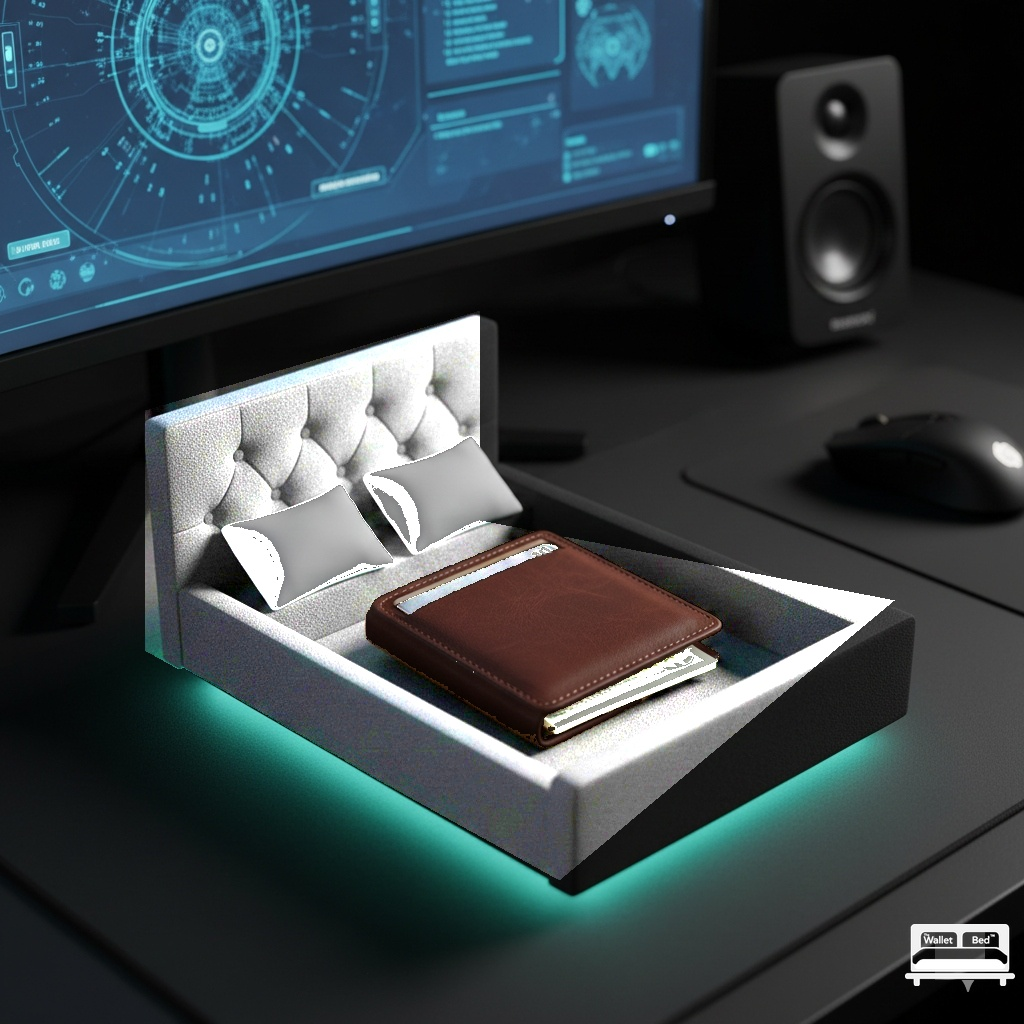
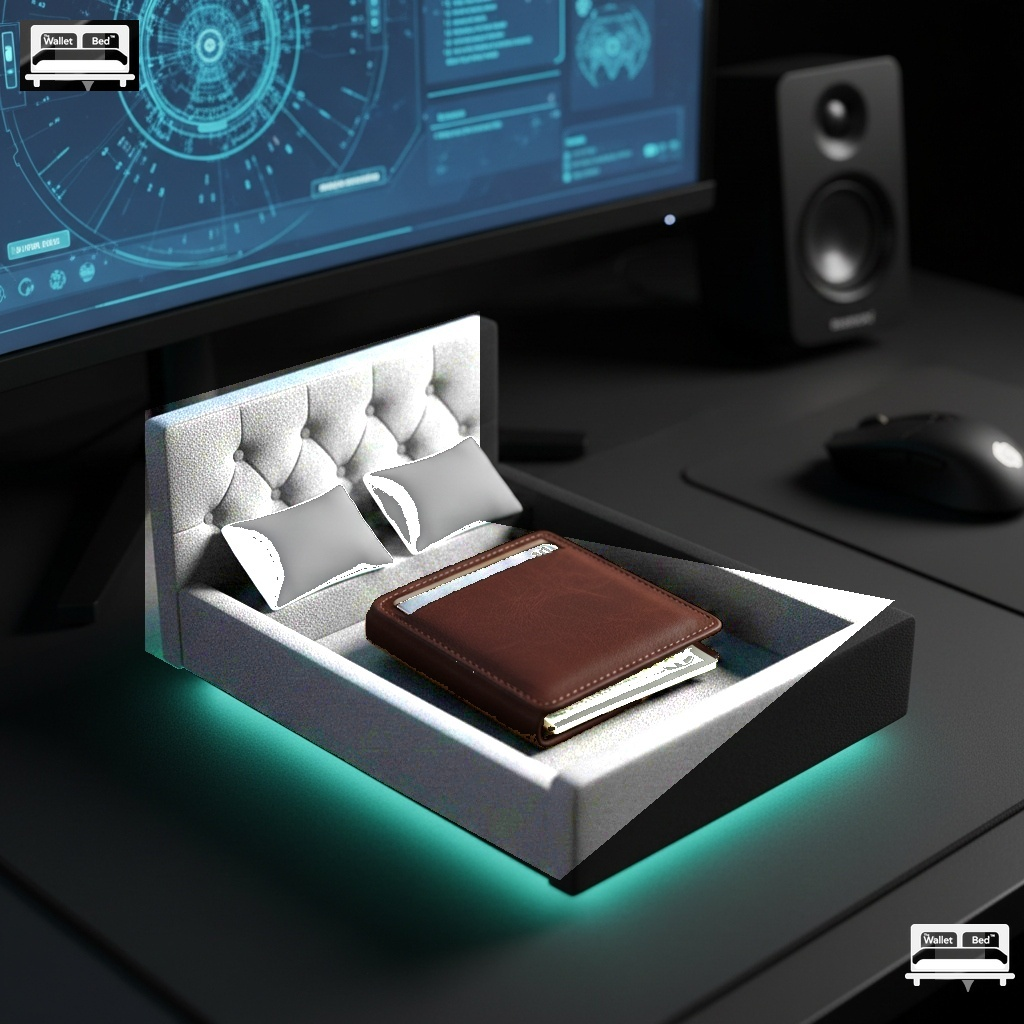
Storefront Layout Corrections Walkthrough

Changed region(s): [[0.0, 0.0, 0.1562, 0.0938]]

diff --git a/walletbeds/index.html b/walletbeds/index.html
@@ -49,20 +49,23 @@
                 <!-- Block 1: Title & Subtitle -->
                 <div class="hero-text-content">
                     <span class="hero-tag">Premium Bedside Innovation</span>
-                    <h1>Your Daily Essentials<br class="mobile-br"> Deserve a Better Place to Rest.</h1>
+                    <h1>Luxury Rest for Your Essentials</h1>
                     <p class="subtitle">
-                        Stop letting your wallet and keys end up on bare nightstands, left in the car, or buried in a workout bag. Give them a dedicated, premium home equipped with an automated nightlight.
+                        A dedicated resting place for your everyday carry.
                     </p>
                 </div>
                 
                 <!-- Block 2: Hero Visual (Bed Image) -->
                 <div class="hero-visual">
-                    <div class="hero-image-wrapper">
+                    <div class="hero-image-wrapper" style="position: relative; display: inline-block;">
                         <div class="card-brand-badge">
                             <span class="brand-wallet">Wallet</span><span class="brand-beds">Beds</span><span class="brand-tm">™</span>
                         </div>
                         <img src="images/upholstered_black.jpg" alt="Midnight Tufted Edition Wallet Bed" class="hero-main-img">
                         <div class="hero-glow-overlay"></div>
+                        <div class="hero-watermark-overlay">
+                            <img src="images/The_Wallet_Bed_Official_Logo_2.png" alt="Wallet Beds™ Official Logo" class="watermark-asset">
+                        </div>
                     </div>
                 </div>
                 
@@ -111,6 +114,9 @@
                             </button>
                             <img src="images/brand_lv.jpg" alt="Midnight Tufted Edition Wallet Bed" class="product-img product-img-primary">
                             <img src="images/brand_lv.jpg" alt="Midnight Tufted Edition Wallet Bed" class="product-img product-img-secondary">
+                            <div class="walletbeds-lower-third-overlay">
+                                <img src="images/The_Wallet_Bed_Official_Logo_2.png" alt="Wallet Beds™ Official Logo">
+                            </div>
                         </div>
                         <div class="card-info">
                             <div class="review-stars">
@@ -139,6 +145,9 @@
                             </button>
                             <img src="images/brand_goyard.jpg" alt="Royal Blue Tufted Edition Wallet Bed" class="product-img product-img-primary">
                             <img src="images/brand_goyard.jpg" alt="Royal Blue Tufted Edition Wallet Bed" class="product-img product-img-secondary">
+                            <div class="walletbeds-lower-third-overlay">
+                                <img src="images/The_Wallet_Bed_Official_Logo_2.png" alt="Wallet Beds™ Official Logo">
+                            </div>
                         </div>
                         <div class="card-info">
                             <div class="review-stars">
@@ -167,6 +176,9 @@
                             </button>
                             <img src="images/brand_valentino.jpg" alt="Industrial Pipe Edition Wallet Bed" class="product-img product-img-primary">
                             <img src="images/brand_valentino.jpg" alt="Industrial Pipe Edition Wallet Bed" class="product-img product-img-secondary">
+                            <div class="walletbeds-lower-third-overlay">
+                                <img src="images/The_Wallet_Bed_Official_Logo_2.png" alt="Wallet Beds™ Official Logo">
+                            </div>
                         </div>
                         <div class="card-info">
                             <div class="review-stars">
@@ -195,6 +207,9 @@
                             </button>
                             <img src="images/brand_swiss.jpg" alt="Classic Sleigh Edition Wallet Bed" class="product-img product-img-primary">
                             <img src="images/brand_swiss.jpg" alt="Classic Sleigh Edition Wallet Bed" class="product-img product-img-secondary">
+                            <div class="walletbeds-lower-third-overlay">
+                                <img src="images/The_Wallet_Bed_Official_Logo_2.png" alt="Wallet Beds™ Official Logo">
+                            </div>
                         </div>
                         <div class="card-info">
                             <div class="review-stars">
@@ -223,6 +238,9 @@
                             </button>
                             <img src="images/brand_gucci.jpg" alt="Four-Poster Canopy Edition Wallet Bed" class="product-img product-img-primary">
                             <img src="images/brand_gucci.jpg" alt="Four-Poster Canopy Edition Wallet Bed" class="product-img product-img-secondary">
+                            <div class="walletbeds-lower-third-overlay">
+                                <img src="images/The_Wallet_Bed_Official_Logo_2.png" alt="Wallet Beds™ Official Logo">
+                            </div>
                         </div>
                         <div class="card-info">
                             <div class="review-stars">
@@ -241,8 +259,8 @@
                     </div>
 
                     <!-- 6. Minimalist Platform (White Bed) -->
-                    <div class="product-card" data-category="wood">
-                        <div class="card-media">
+                    <div class="product-card minimalist-platform-card" data-category="wood">
+                        <div class="card-media clean-lacquer-context">
                         <div class="card-brand-badge">
                             <span class="brand-wallet">Wallet</span><span class="brand-beds">Beds</span><span class="brand-tm">™</span>
                         </div>
@@ -251,6 +269,9 @@
                             </button>
                             <img src="images/brand_white.jpg" alt="Minimalist Platform Wallet Bed" class="product-img product-img-primary">
                             <img src="images/brand_white.jpg" alt="Minimalist Platform Wallet Bed" class="product-img product-img-secondary">
+                            <div class="walletbeds-lower-third-overlay">
+                                <img src="images/The_Wallet_Bed_Official_Logo_2.png" alt="Wallet Beds™ Official Logo">
+                            </div>
                         </div>
                         <div class="card-info">
                             <div class="review-stars">

diff --git a/walletbeds/style.css b/walletbeds/style.css
@@ -2149,3 +2149,101 @@ img {
 }
 
 
+
+
+/* ==========================================================================
+   🎯 Floating Product Image Watermark
+   ========================================================================== */
+.product-watermark {
+    position: absolute;
+    bottom: 12px;
+    right: 12px;
+    z-index: 5;
+    width: 48px;
+    height: 48px;
+    opacity: 0.75;
+    pointer-events: none; /* Allows user interactions/hover to pass through to images */
+    transition: opacity 0.3s ease, transform 0.3s ease;
+}
+
+/* Micro-interaction: enhance visibility and scale slightly when card/image is hovered */
+.product-card:hover .product-watermark,
+.hero-image-wrapper:hover .product-watermark {
+    opacity: 0.95;
+    transform: scale(1.06);
+}
+
+/* ==========================================
+   POSITIONING CONTEXTS & LAYOUT INTEGRITY
+   ========================================== */
+
+/* Forces product image wrapper blocks to act as absolute anchors */
+.image-container,
+.card-media {
+  position: relative;
+  display: block;
+  overflow: hidden;
+  width: 100%;
+}
+
+.product-image,
+.product-img {
+  display: block;
+  width: 100%;
+  height: auto;
+  object-fit: cover;
+}
+
+/* ==========================================
+   LOWER-RIGHT THIRD WATERMARK STYLEENGINE
+   ========================================== */
+.walletbeds-lower-third-overlay {
+  position: absolute;
+  bottom: 12px;
+  right: 12px;
+  z-index: 5;
+  pointer-events: none; /* Ensures UI click-through directly to checkout targets */
+  display: flex;
+  align-items: center;
+  justify-content: center;
+  transition: opacity 0.2s ease-in-out;
+}
+
+.walletbeds-lower-third-overlay img {
+  height: 22px; /* Standardized sizing metric across featured collection grids */
+  width: auto;
+  display: block;
+  filter: drop-shadow(0px 2px 4px rgba(0, 0, 0, 0.4)); /* Maximizes contrast visibility */
+}
+
+/* ==========================================
+   HERO WATERMARK FIX (EXPLICIT POSITIONING)
+   ========================================== */
+.hero-watermark-overlay {
+  position: absolute;
+  bottom: 20px;
+  right: 20px;
+  z-index: 20; /* Elevates above layout base artifacts to properly block underlying nodes */
+  pointer-events: none;
+}
+
+.hero-watermark-overlay .watermark-asset {
+  height: 32px; /* Scaled cleanly for the larger hero viewport scale */
+  width: auto;
+}
+
+/* ==========================================
+   MINIMALIST PLATFORM SPECIFIC OVERLAY STRIP
+   ========================================== */
+/* Disables inherited global faux textures/dark filters causing the visual distortion */
+.clean-lacquer-context::before,
+.clean-lacquer-context::after {
+  display: none !important;
+  background: none !important;
+  mix-blend-mode: normal !important;
+}
+
+.minimalist-platform-card .product-image,
+.minimalist-platform-card .product-img {
+  background-color: #ffffff; /* Guarantees high-gloss visual clarity background fallback */
+}
